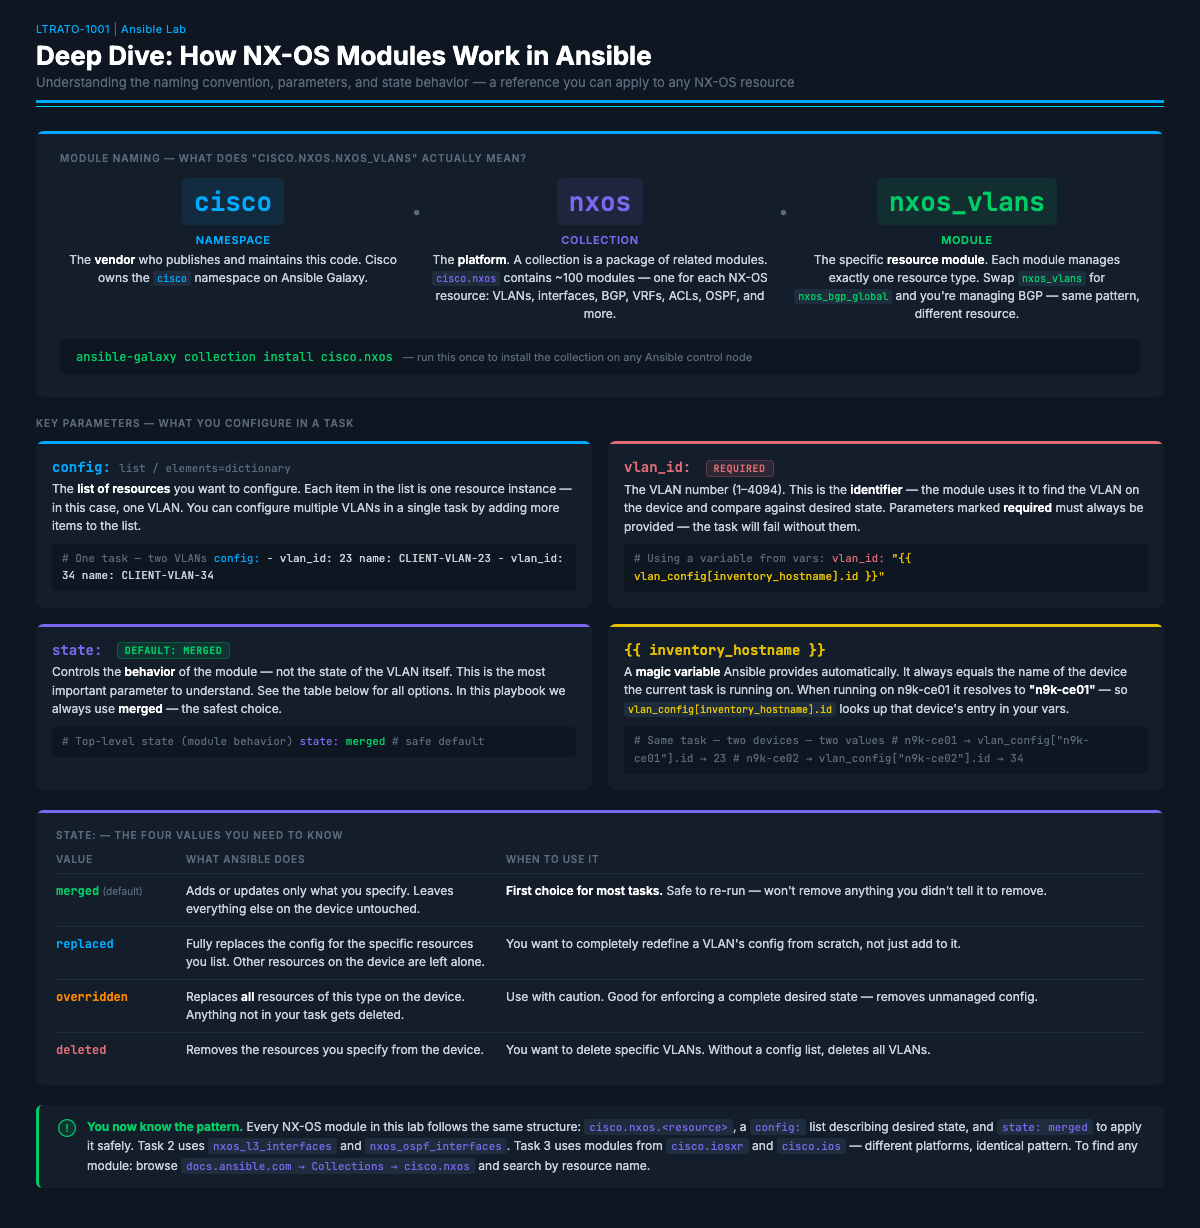
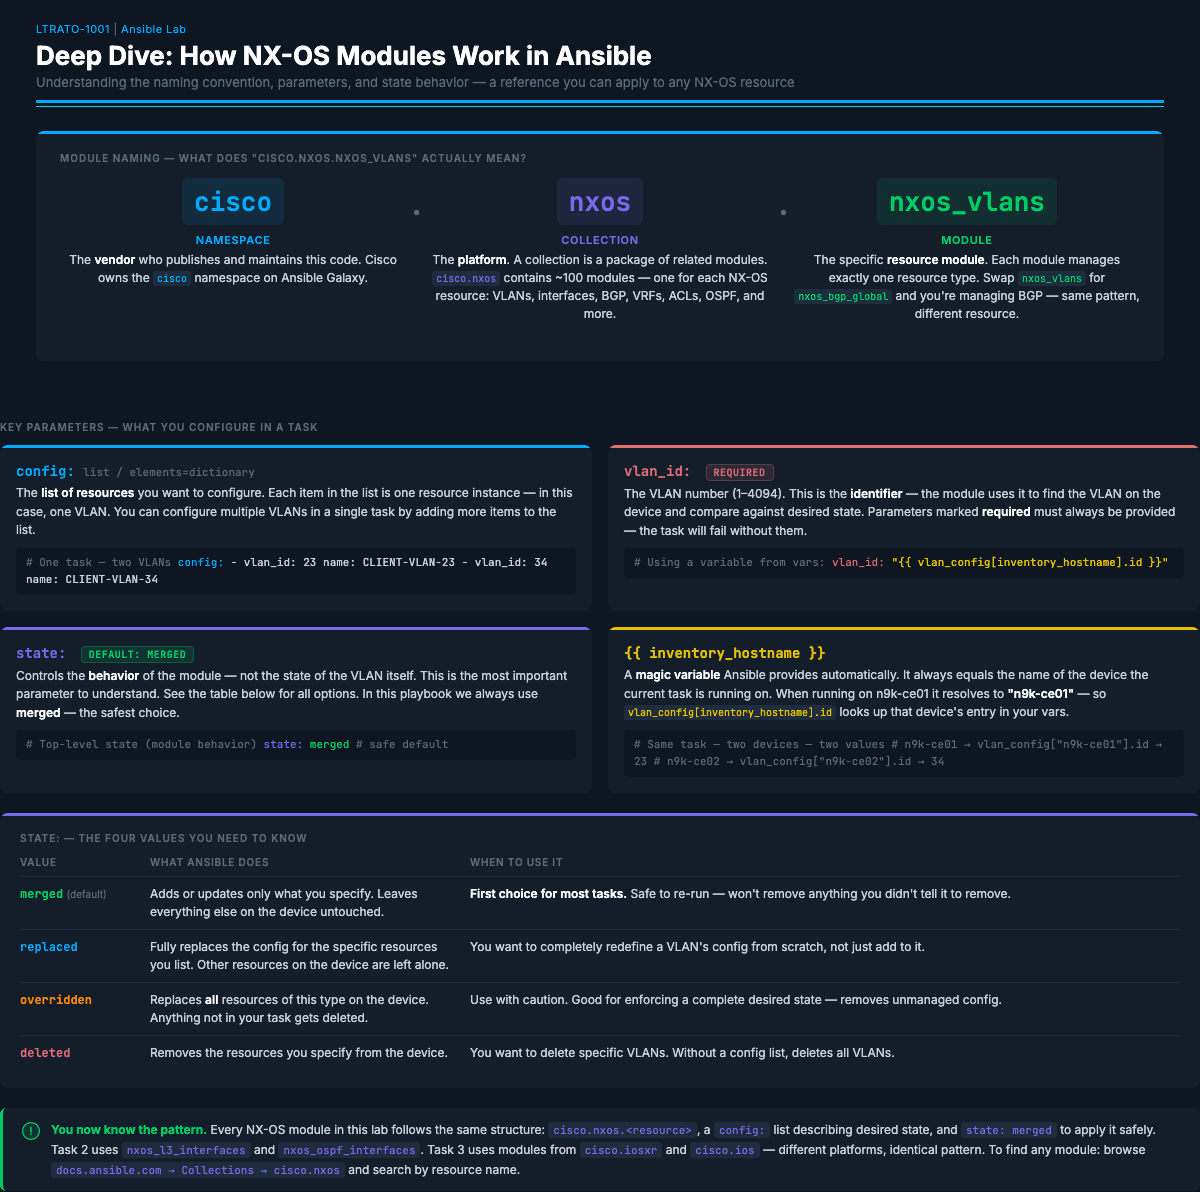
Remove ansible-galaxy install command from Deep Dive section (collection pre-installed)

diff --git a/task1-deep-dive-modules.html b/task1-deep-dive-modules.html
@@ -241,9 +241,6 @@
         </div>
       </div>
 
-      <div class="install-bar">
-        ansible-galaxy collection install cisco.nxos
-        <span>— run this once to install the collection on any Ansible control node</span>
       </div>
     </div>
   </div>

diff --git a/TASK1.md b/TASK1.md
@@ -135,12 +135,6 @@ Before filling in the variables, take a minute to understand what you just read.
 | **Collection** | `nxos` | The platform. `cisco.nxos` contains ~100 modules — one per NX-OS resource: VLANs, interfaces, BGP, VRFs, ACLs, OSPF, and more |
 | **Module** | `nxos_vlans` | The specific resource module. Swap it for `nxos_bgp_global` and you're managing BGP — same pattern, different resource |
 
-To install the collection on any Ansible control node:
-
-```bash
-ansible-galaxy collection install cisco.nxos
-```
-
 #### Key Parameters
 
 **`config:`** — A list of resources you want to configure. Each item is one resource instance (one VLAN). You can configure multiple VLANs in a single task by adding more list items.
